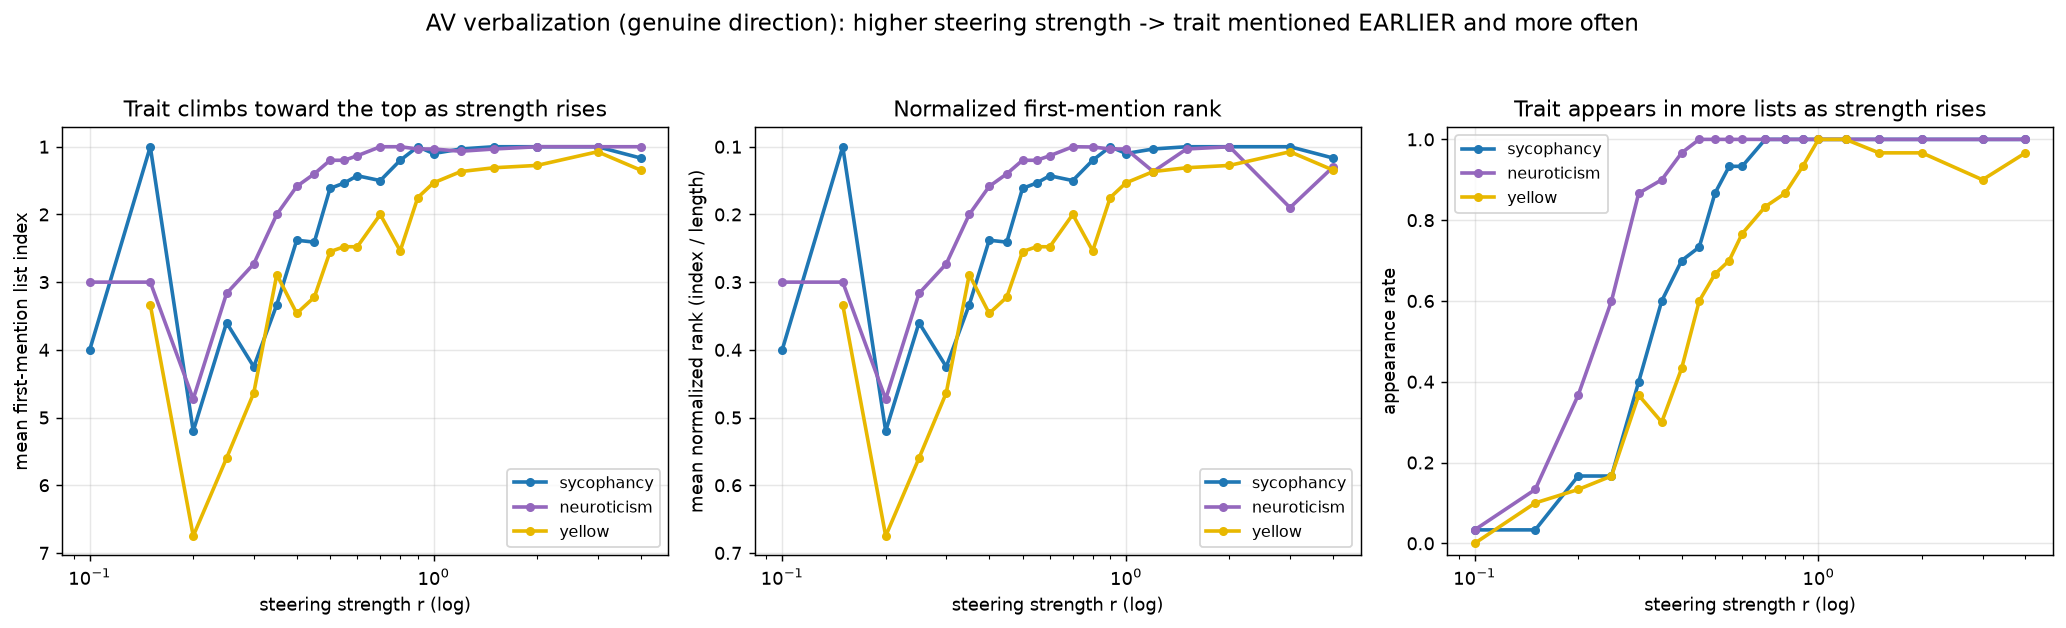
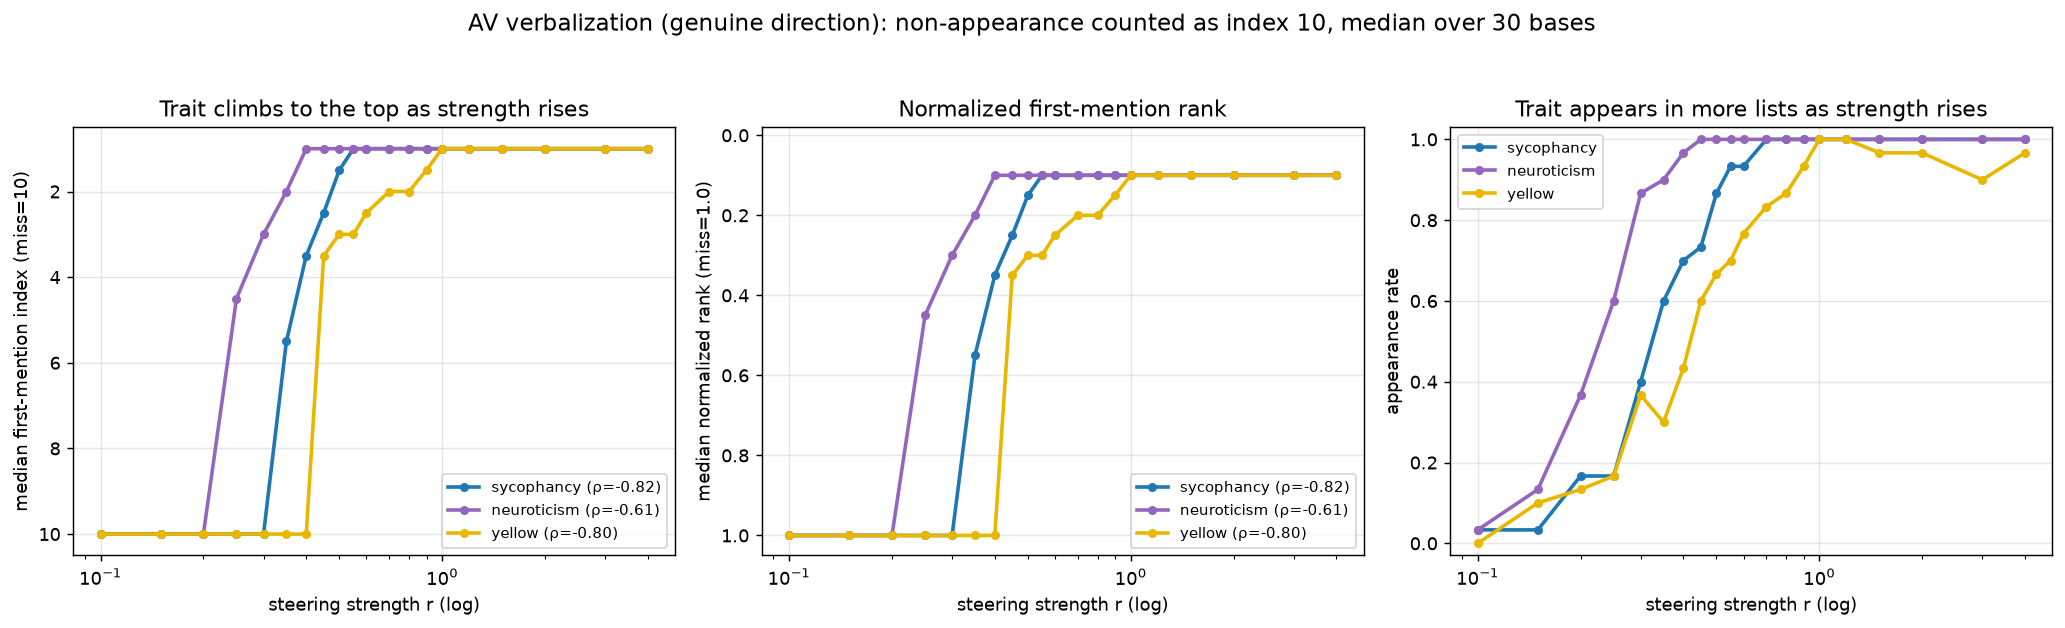
📉 Front-loading graph: non-appearance=10, median over bases
Re-analysis of the dense sweep: every base contributes at every strength
(absent trait -> index 10), median across 30 bases. Clean monotone descent
10->1 with a clear transition; Spearman(r, idx): sycophancy -0.82, yellow -0.80,
neuroticism -0.61. Transition order neuroticism (~r0.3) < sycophancy (~r0.45) <
yellow (~r0.9). fig_frontload_v2.png updated.

Claude-Session: https://claude.ai/code/session_013QpD8gUKVwdg5FeGc2gDm2

diff --git a/experiments/qwen2.5-matryoshka-warmstart-sonnet46/caa_steering_v2/plot_frontload_v2.py b/experiments/qwen2.5-matryoshka-warmstart-sonnet46/caa_steering_v2/plot_frontload_v2.py
@@ -1,4 +1,8 @@
-"""Figure: steering strength vs where the trait first appears in the AV list."""
+"""Figure: steering strength vs where the trait first appears in the AV list.
+
+Convention here: non-appearance counts as index 10 (bottom of a ~10-item list), so every base
+contributes at every strength (no selection bias), and we use the MEDIAN across bases.
+"""
 import json
 import os
 from collections import defaultdict
@@ -13,28 +17,47 @@ R = os.path.join(HERE, "results")
 rows = json.load(open(f"{R}/frontload_v2_judged.json"))
 RS = sorted({r["r"] for r in rows})
 TCOL = {"sycophancy": "#1f77b4", "neuroticism": "#9467bd", "yellow": "#e8b800"}
+MISS = 10  # non-appearance -> index 10
 
 agg = defaultdict(lambda: {"idx": [], "norm": [], "app": 0, "tot": 0})
 for r in rows:
-    a = agg[(r["trait"], r["r"])]; a["tot"] += 1
     fi = r.get("first_index")
-    if fi and fi >= 1:
-        a["app"] += 1; a["idx"].append(fi); a["norm"].append(fi / max(1, r["n_items"]))
+    appears = bool(fi and fi >= 1)
+    a = agg[(r["trait"], r["r"])]
+    a["tot"] += 1
+    a["app"] += int(appears)
+    a["idx"].append(fi if appears else MISS)
+    a["norm"].append((fi / max(1, r["n_items"])) if appears else 1.0)
 
+
+def spearman(x, y):
+    x, y = np.asarray(x, float), np.asarray(y, float)
+    rx = np.argsort(np.argsort(x)).astype(float); ry = np.argsort(np.argsort(y)).astype(float)
+    rx = (rx - rx.mean()) / (rx.std() + 1e-9); ry = (ry - ry.mean()) / (ry.std() + 1e-9)
+    return float((rx * ry).mean())
+
+
+print("=== median first-mention index (non-appearance = 10) ===")
 fig, ax = plt.subplots(1, 3, figsize=(16, 4.6))
 for trait, col in TCOL.items():
-    xs = [r for r in RS if agg[(trait, r)]["idx"]]
-    mean_idx = [np.mean(agg[(trait, r)]["idx"]) for r in xs]
-    nrm = [np.mean(agg[(trait, r)]["norm"]) for r in xs]
+    med_idx = [np.median(agg[(trait, r)]["idx"]) for r in RS]
+    med_norm = [np.median(agg[(trait, r)]["norm"]) for r in RS]
     app = [agg[(trait, r)]["app"] / agg[(trait, r)]["tot"] for r in RS]
-    ax[0].plot(xs, mean_idx, "o-", color=col, lw=2, ms=4, label=trait)
-    ax[1].plot(xs, nrm, "o-", color=col, lw=2, ms=4, label=trait)
+    sx, sy = [], []
+    for r in RS:
+        sx += [r] * len(agg[(trait, r)]["idx"]); sy += agg[(trait, r)]["idx"]
+    sp = spearman(sx, sy)
+    lab = f"{trait} (ρ={sp:+.2f})"
+    ax[0].plot(RS, med_idx, "o-", color=col, lw=2, ms=4, label=lab)
+    ax[1].plot(RS, med_norm, "o-", color=col, lw=2, ms=4, label=lab)
     ax[2].plot(RS, app, "o-", color=col, lw=2, ms=4, label=trait)
+    print(f"  {trait:11s} spearman(r, idx[miss=10]) = {sp:+.3f}")
+    print("    " + "  ".join(f"r{r:g}={np.median(agg[(trait,r)]['idx']):.0f}" for r in RS))
 for a in ax:
-    a.set_xscale("log"); a.set_xlabel("steering strength r (log)"); a.grid(alpha=.3); a.legend(fontsize=9)
-ax[0].set_ylabel("mean first-mention list index"); ax[0].set_title("Trait climbs toward the top as strength rises"); ax[0].invert_yaxis()
-ax[1].set_ylabel("mean normalized rank (index / length)"); ax[1].set_title("Normalized first-mention rank"); ax[1].invert_yaxis()
+    a.set_xscale("log"); a.set_xlabel("steering strength r (log)"); a.grid(alpha=.3); a.legend(fontsize=8.5)
+ax[0].set_ylabel("median first-mention index (miss=10)"); ax[0].set_title("Trait climbs to the top as strength rises"); ax[0].set_ylim(10.5, 0.5)
+ax[1].set_ylabel("median normalized rank (miss=1.0)"); ax[1].set_title("Normalized first-mention rank"); ax[1].set_ylim(1.05, -0.02)
 ax[2].set_ylabel("appearance rate"); ax[2].set_title("Trait appears in more lists as strength rises"); ax[2].set_ylim(-0.03, 1.03)
-fig.suptitle("AV verbalization (genuine direction): higher steering strength -> trait mentioned EARLIER and more often", y=1.04, fontsize=13)
+fig.suptitle("AV verbalization (genuine direction): non-appearance counted as index 10, median over 30 bases", y=1.04, fontsize=13)
 fig.tight_layout(); fig.savefig(f"{R}/fig_frontload_v2.png", dpi=130, bbox_inches="tight")
-print("wrote fig_frontload_v2.png")
+print("\nwrote fig_frontload_v2.png")